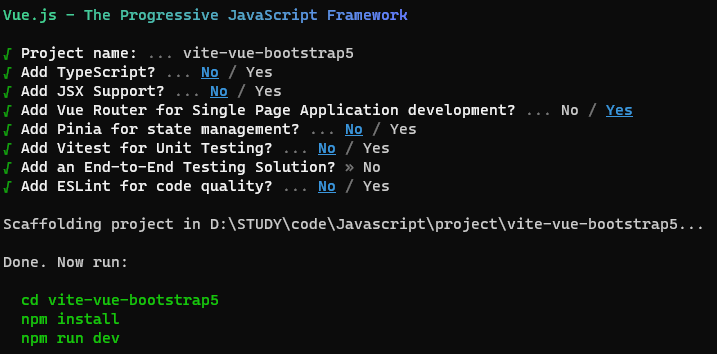
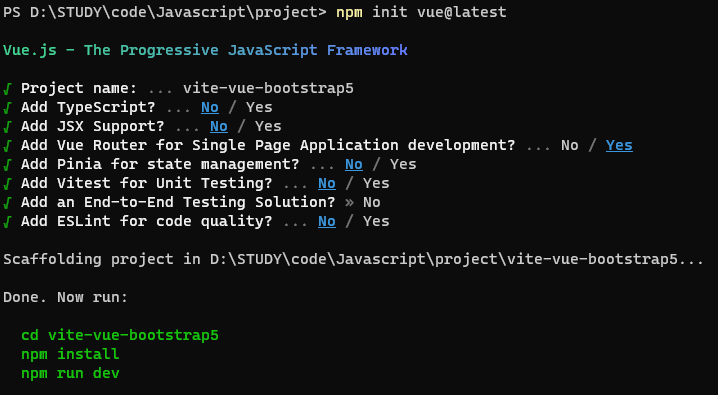
GITBOOK-22: No subject

diff --git a/library/bootstrap-and-vite.md b/library/bootstrap-and-vite.md
@@ -67,22 +67,25 @@ npm install -D sass
 1.  **vscode 를 실행**하고 생성한 폴더를 오픈 합니다.\
 
 
-    <figure><img src="../.gitbook/assets/image (3).png" alt=""><figcaption></figcaption></figure>
+    <figure><img src="../.gitbook/assets/image (4).png" alt=""><figcaption></figcaption></figure>
 2.  **Bootstrap's CSS 삽입**   : assets/scss/styles.scss 파일을 생성 하고.Bootstrap's CSS 삽입을 하기 위해서 다음과 같이 작성 해 주세요.
 
     * Bootstrap의 모든 소스 Sass를 가져오기 위해 다음을 작성 합니다
     * 원하는 경우 스타일시트를 개별적으로 가져올 수도 있는데.자세한 내용은 [Sass 불러오기 문서를 참조](https://getbootstrap.kr/docs/5.3/customize/sass/)하세요.
 
+    {% code title="assets/scss/styles.scss" lineNumbers="true" %}
     ```scss
     // Bootstrap's CSS 삽입
+    // scss css 직접 : @import "bootstrap/dist/css/bootstrap.css";
     @import "bootstrap/scss/bootstrap";
     ```
+    {% endcode %}
 3.  **CSS를 로드하고 Bootstrap의 JavaScript를 불러오기** 위해서 src/js/main.js 파일에 다음과 같이 작성 해 주세요.
 
     * CSS를 로드하고 Bootstrap의 모든 JS를 임포트  합니다.
     * Popper는 Bootstrap을 통해 자동으로 임포트됩니다.
 
-    {% code lineNumbers="true" %}
+    {% code title="src/js/main.js" lineNumbers="true" %}
     ```js
     import { createApp } from 'vue'
 
@@ -90,14 +93,18 @@ npm install -D sass
     import '../scss/styles.scss'
 
     // Bootstrap's JS 모두 Import 
+    // 직접 js : import "bootstrap/dist/js/bootstrap.js";
     import * as bootstrap from 'bootstrap'
 
     import App from './App.vue'
-    import router from './router'
+
+    // 라우터 설정 하지 않아서 주석 처리
+    // import router from './router'
 
     const app = createApp(App)
 
-    app.use(router)
+    // 라우터 설정 하지 않아서 주석 처리
+    // app.use(router)
 
     app.mount('#app')
     ```
@@ -108,7 +115,7 @@ npm install -D sass
     ```js
     import Alert from 'bootstrap/js/dist/alert';
 
-    // or, specify which plugins you need:
+    // 필요한 것 만 추가 
     import { Tooltip, Toast, Popover } from 'bootstrap';
     ```
 4.  **src/App.vue** 를 다음과 같은 코드를 작성 합니다.\
@@ -138,5 +145,7 @@ npm install -D sass
 설정 작업이 완료 되었습니다.&#x20;
 
 ```bash
-npm rund d
+npm run dev
 ```
+
+<figure><img src="../.gitbook/assets/image.png" alt="" width="550"><figcaption></figcaption></figure>
